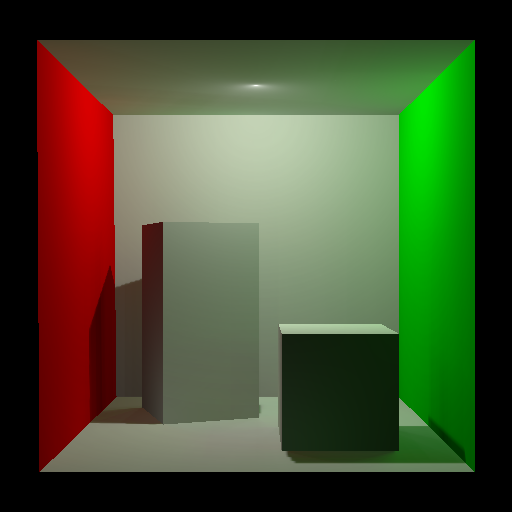
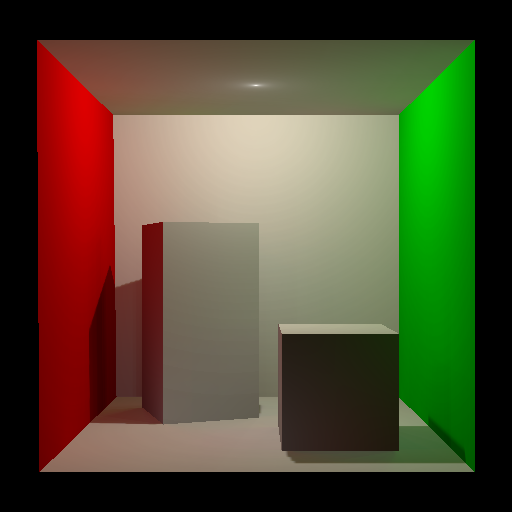
update

diff --git a/Assets/InstantRadiosity/InstantRadiosity.cs b/Assets/InstantRadiosity/InstantRadiosity.cs
@@ -15,7 +15,7 @@ public class InstantRadiosity : MonoBehaviour
 
 	void Start ()
     {
-        material = new Material(Shader.Find("Hidden/IRPostProcess"));
+        material = new Material(Shader.Find("VPL/IRPostProcess"));
         material.SetFloat("_PhotonNum", this.photonNum);
 
         this.GenerateVPLs();
@@ -30,6 +30,7 @@ public class InstantRadiosity : MonoBehaviour
         this.sourceLight.enabled = false;
 
         Vector3 sourceLightPos = this.sourceLight.transform.position;
+        float sourceIntensity = this.sourceLight.intensity;
 
         RaycastHit raycastHit = new RaycastHit();
 
@@ -38,9 +39,11 @@ public class InstantRadiosity : MonoBehaviour
             Color lightCol = this.sourceLight.color;
 
             //direct Light
-            this.CreateVirtualPointLight(sourceLightPos, lightCol, 1.0f, this.sourceLight.range);
+            this.CreateVirtualPointLight(sourceLightPos, lightCol, sourceIntensity, this.sourceLight.range);
 
             Vector3 dir = this.GenerateHemisphereDir(Vector3.down);
+
+            float intensity = sourceIntensity;
 
             for (int j = 0; j < bounces; j++)
             {
@@ -51,7 +54,8 @@ public class InstantRadiosity : MonoBehaviour
                     {
                         lightCol *= renderer.sharedMaterial.color;
 
-                        this.CreateVirtualPointLight(raycastHit.point + raycastHit.normal * 0.001f, lightCol, 1.0f, 1000);
+                        //intensity *= Mathf.Clamp01(Vector3.Dot(raycastHit.normal, -dir));
+                        this.CreateVirtualPointLight(raycastHit.point + raycastHit.normal * 0.001f, lightCol, intensity, 10);
 
                         dir = this.GenerateHemisphereDir(raycastHit.normal);
                     }
@@ -65,6 +69,8 @@ public class InstantRadiosity : MonoBehaviour
                     break;
             }
         }
+
+        Debug.Log(this.vpls.Count);
     }
 
     Vector3 GenerateHemisphereDir(Vector3 normal)
@@ -103,7 +109,7 @@ public class InstantRadiosity : MonoBehaviour
 
         Light light = go.AddComponent<Light>();
         light.type = LightType.Point;
-        light.range = 10;
+        light.range = range;
         light.color = color;
         light.intensity = intensity;
         light.shadowResolution = this.shadowResolution;

diff --git a/README.md b/README.md
@@ -4,4 +4,4 @@ Screenshot | Method
 ------------ | -------------
 ![image](Screenshot/DirectOnly.png) | DirectOnly
 ![image](Screenshot/Progressive.png) | ProgressiveBaked
-![image](Screenshot/InstantRadiosity64x16.png) | InstantRadiosity<br><br>337 vpls
+![image](Screenshot/InstantRadiosity64x16.png) | InstantRadiosity<br><br>410 vpls
